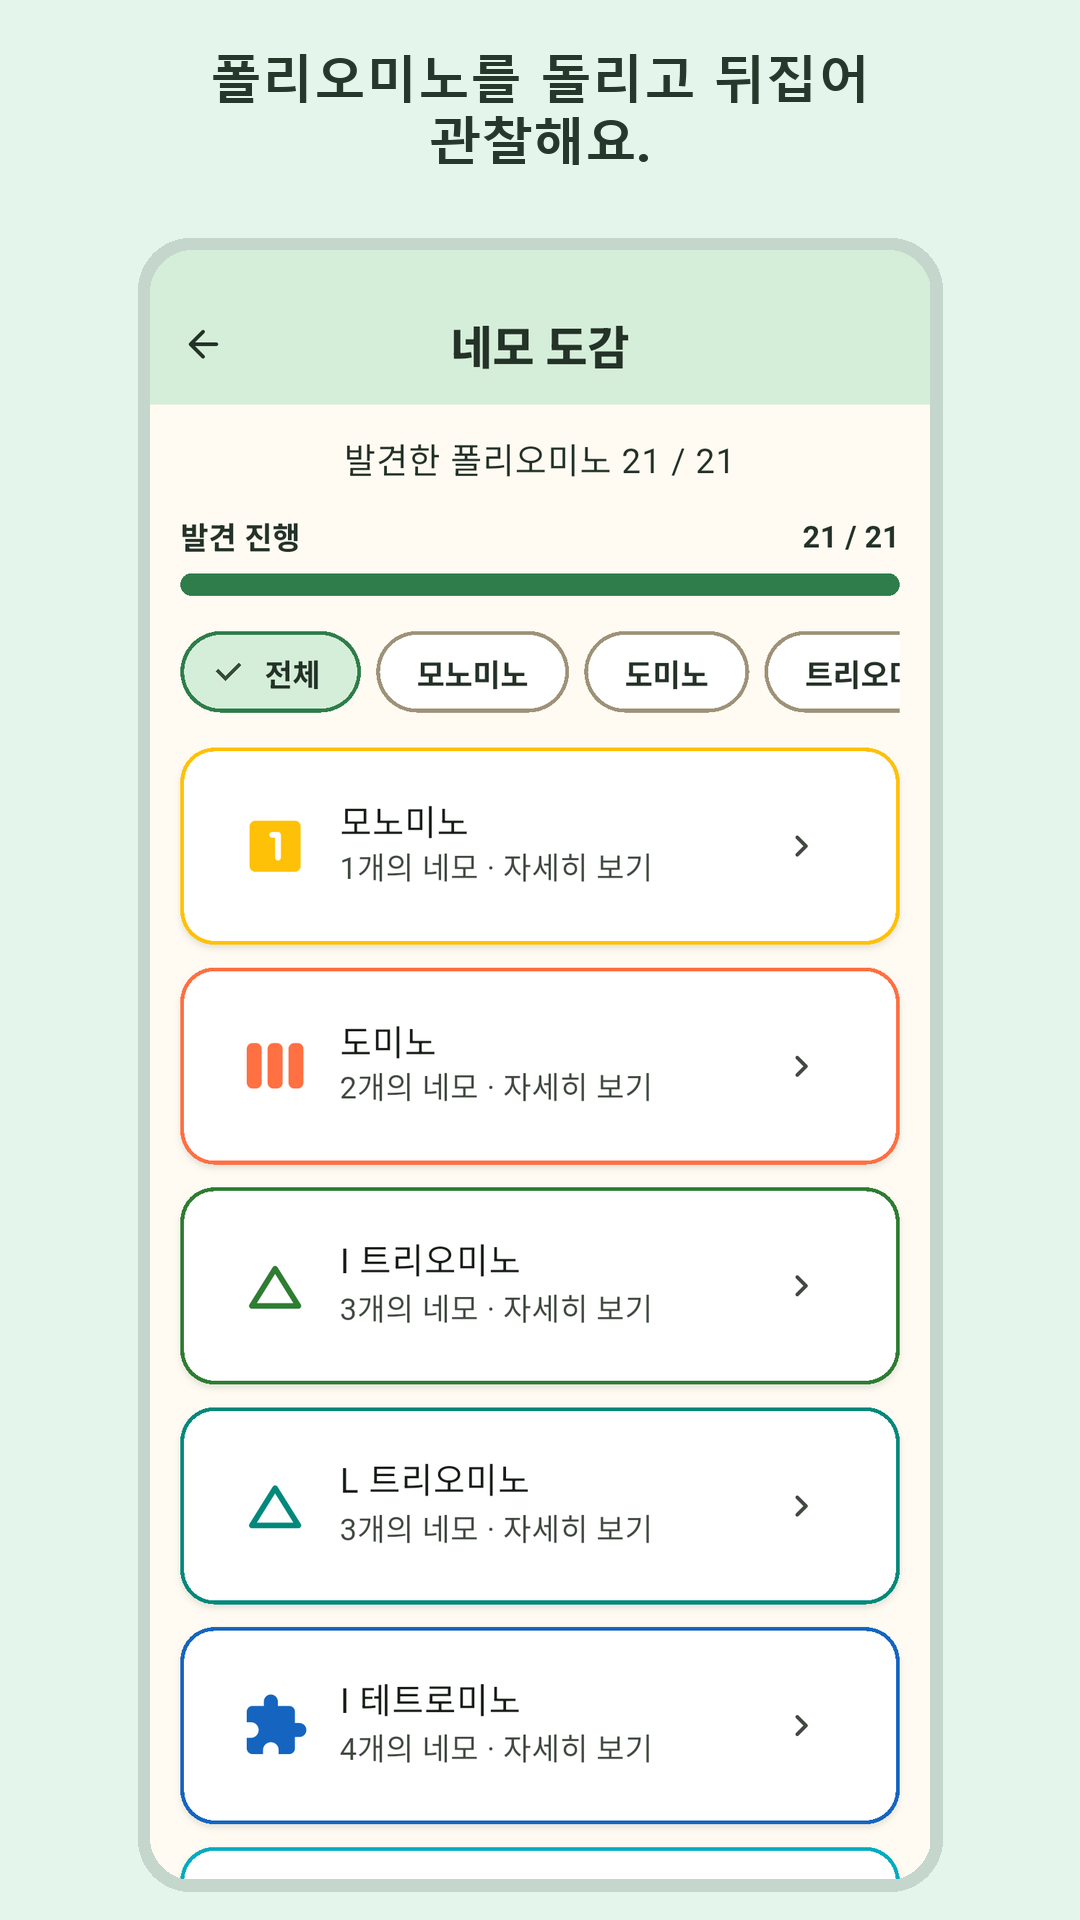
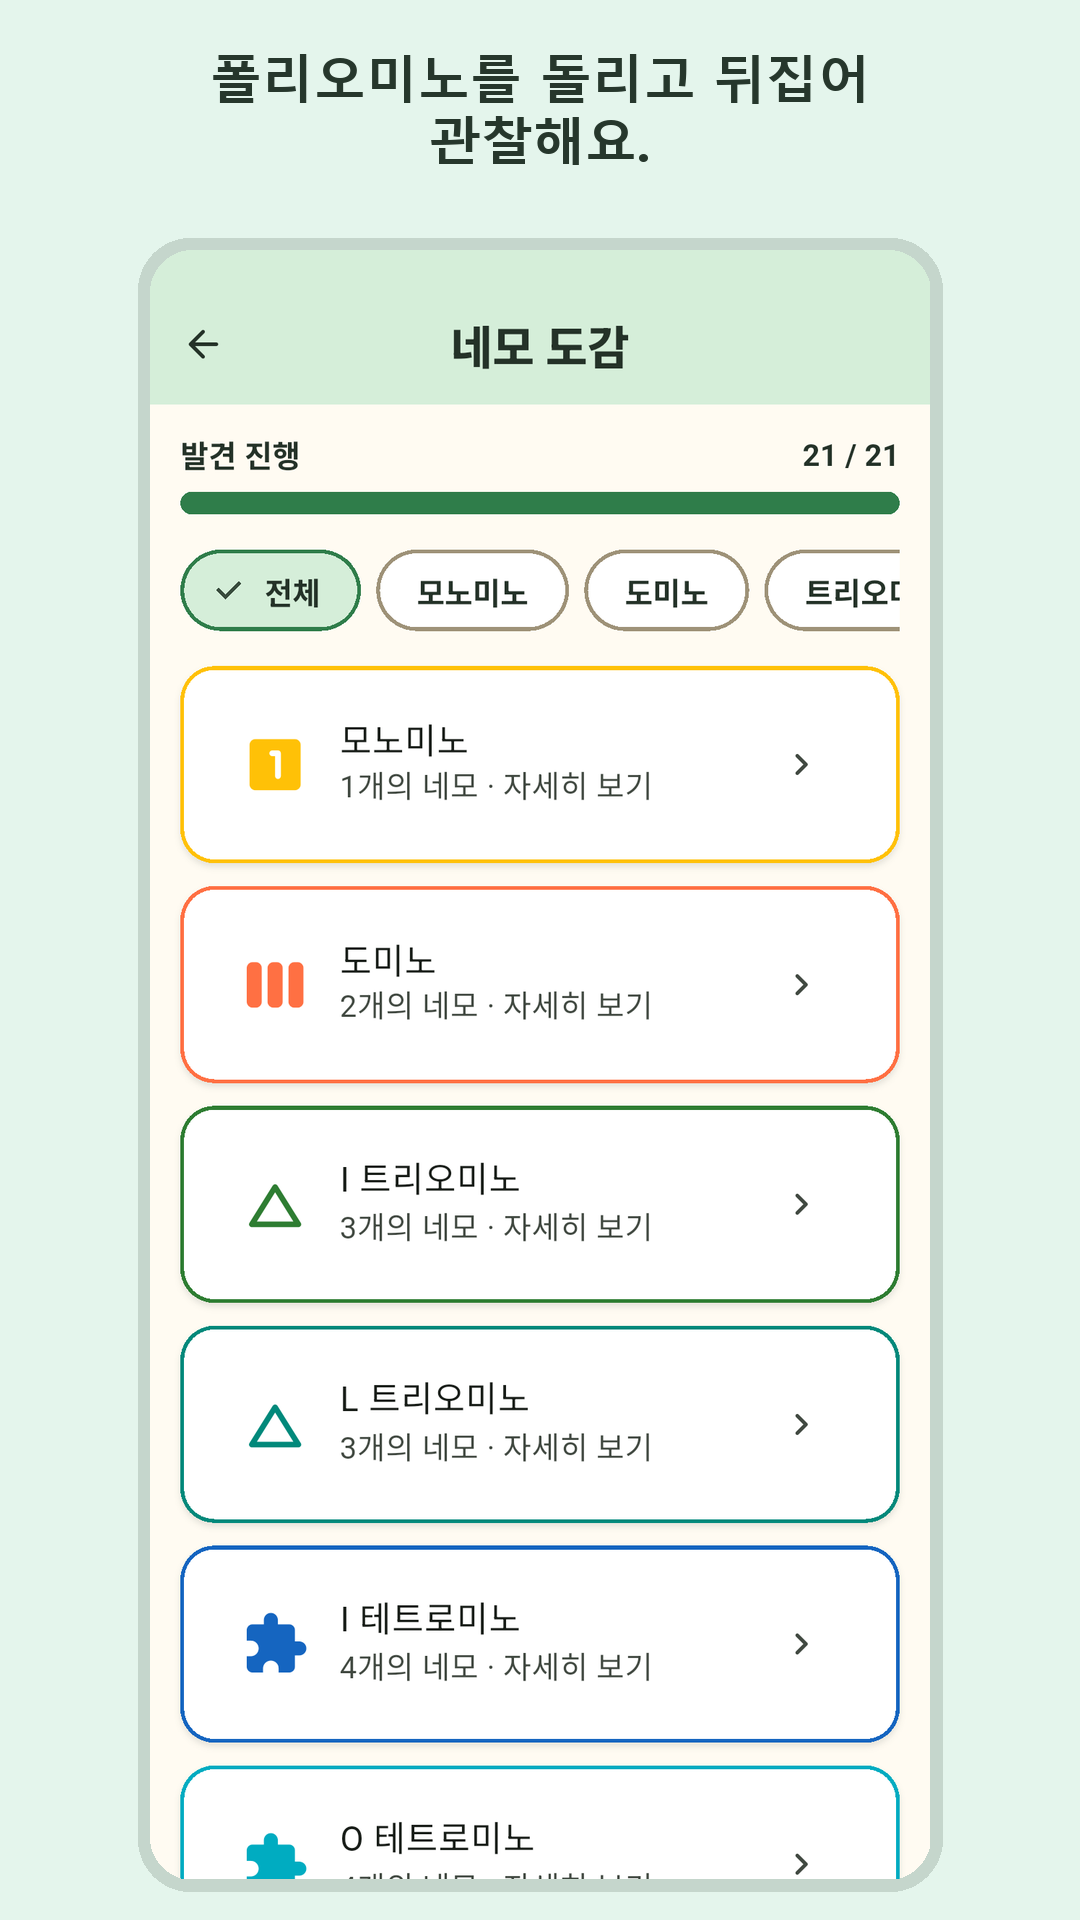
Refresh Polyomino World gallery

Changed region(s): [[0.1528, 0.2188, 0.8556, 1.0]]

diff --git a/polyomino-world/index.html b/polyomino-world/index.html
@@ -47,7 +47,7 @@
       <div class="section-heading">
         <p class="eyebrow">EXPLORE THE GAME</p>
         <h2 id="gallery-title">폴리오미노 월드 둘러보기</h2>
-        <p>화면을 옆으로 넘기며 여섯 가지 탐험을 만나 보세요.</p>
+        <p>화면을 옆으로 넘기며 일곱 가지 탐험을 만나 보세요.</p>
       </div>
       <div class="product-gallery" tabindex="0" aria-label="게임 화면 모음">
         <figure class="screenshot-card">
@@ -63,15 +63,19 @@
           <figcaption><strong>네모 도감</strong><span>발견한 폴리오미노를 돌리고 뒤집으며 관찰해요.</span></figcaption>
         </figure>
         <figure class="screenshot-card">
-          <img src="google_play/screenshots/04_world_exploration.png" width="1080" height="1920" alt="월드 탐험 화면" loading="lazy">
+          <img src="google_play/screenshots/04_polyomino_find.png" width="1080" height="1920" alt="폴리오미노 찾기 화면" loading="lazy">
+          <figcaption><strong>폴리오미노 찾기</strong><span>여러 모양을 살펴보고 같은 폴리오미노를 찾아요.</span></figcaption>
+        </figure>
+        <figure class="screenshot-card">
+          <img src="google_play/screenshots/05_world_exploration.png" width="1080" height="1920" alt="월드 탐험 화면" loading="lazy">
           <figcaption><strong>월드 탐험</strong><span>4개 월드를 지나며 32개의 퍼즐 단계를 완성해요.</span></figcaption>
         </figure>
         <figure class="screenshot-card">
-          <img src="google_play/screenshots/05_daily_puzzle.png" width="1080" height="1920" alt="오늘의 퍼즐 화면" loading="lazy">
+          <img src="google_play/screenshots/06_daily_puzzle.png" width="1080" height="1920" alt="오늘의 퍼즐 화면" loading="lazy">
           <figcaption><strong>오늘의 퍼즐</strong><span>매일 새롭게 준비되는 퍼즐에 도전해요.</span></figcaption>
         </figure>
         <figure class="screenshot-card">
-          <img src="google_play/screenshots/06_treasure_exploration.png" width="1080" height="1920" alt="보물 탐험 화면" loading="lazy">
+          <img src="google_play/screenshots/07_treasure_exploration.png" width="1080" height="1920" alt="보물 탐험 화면" loading="lazy">
           <figcaption><strong>보물 탐험</strong><span>가로와 세로 줄을 채우고 보물과 업적을 모아요.</span></figcaption>
         </figure>
       </div>
